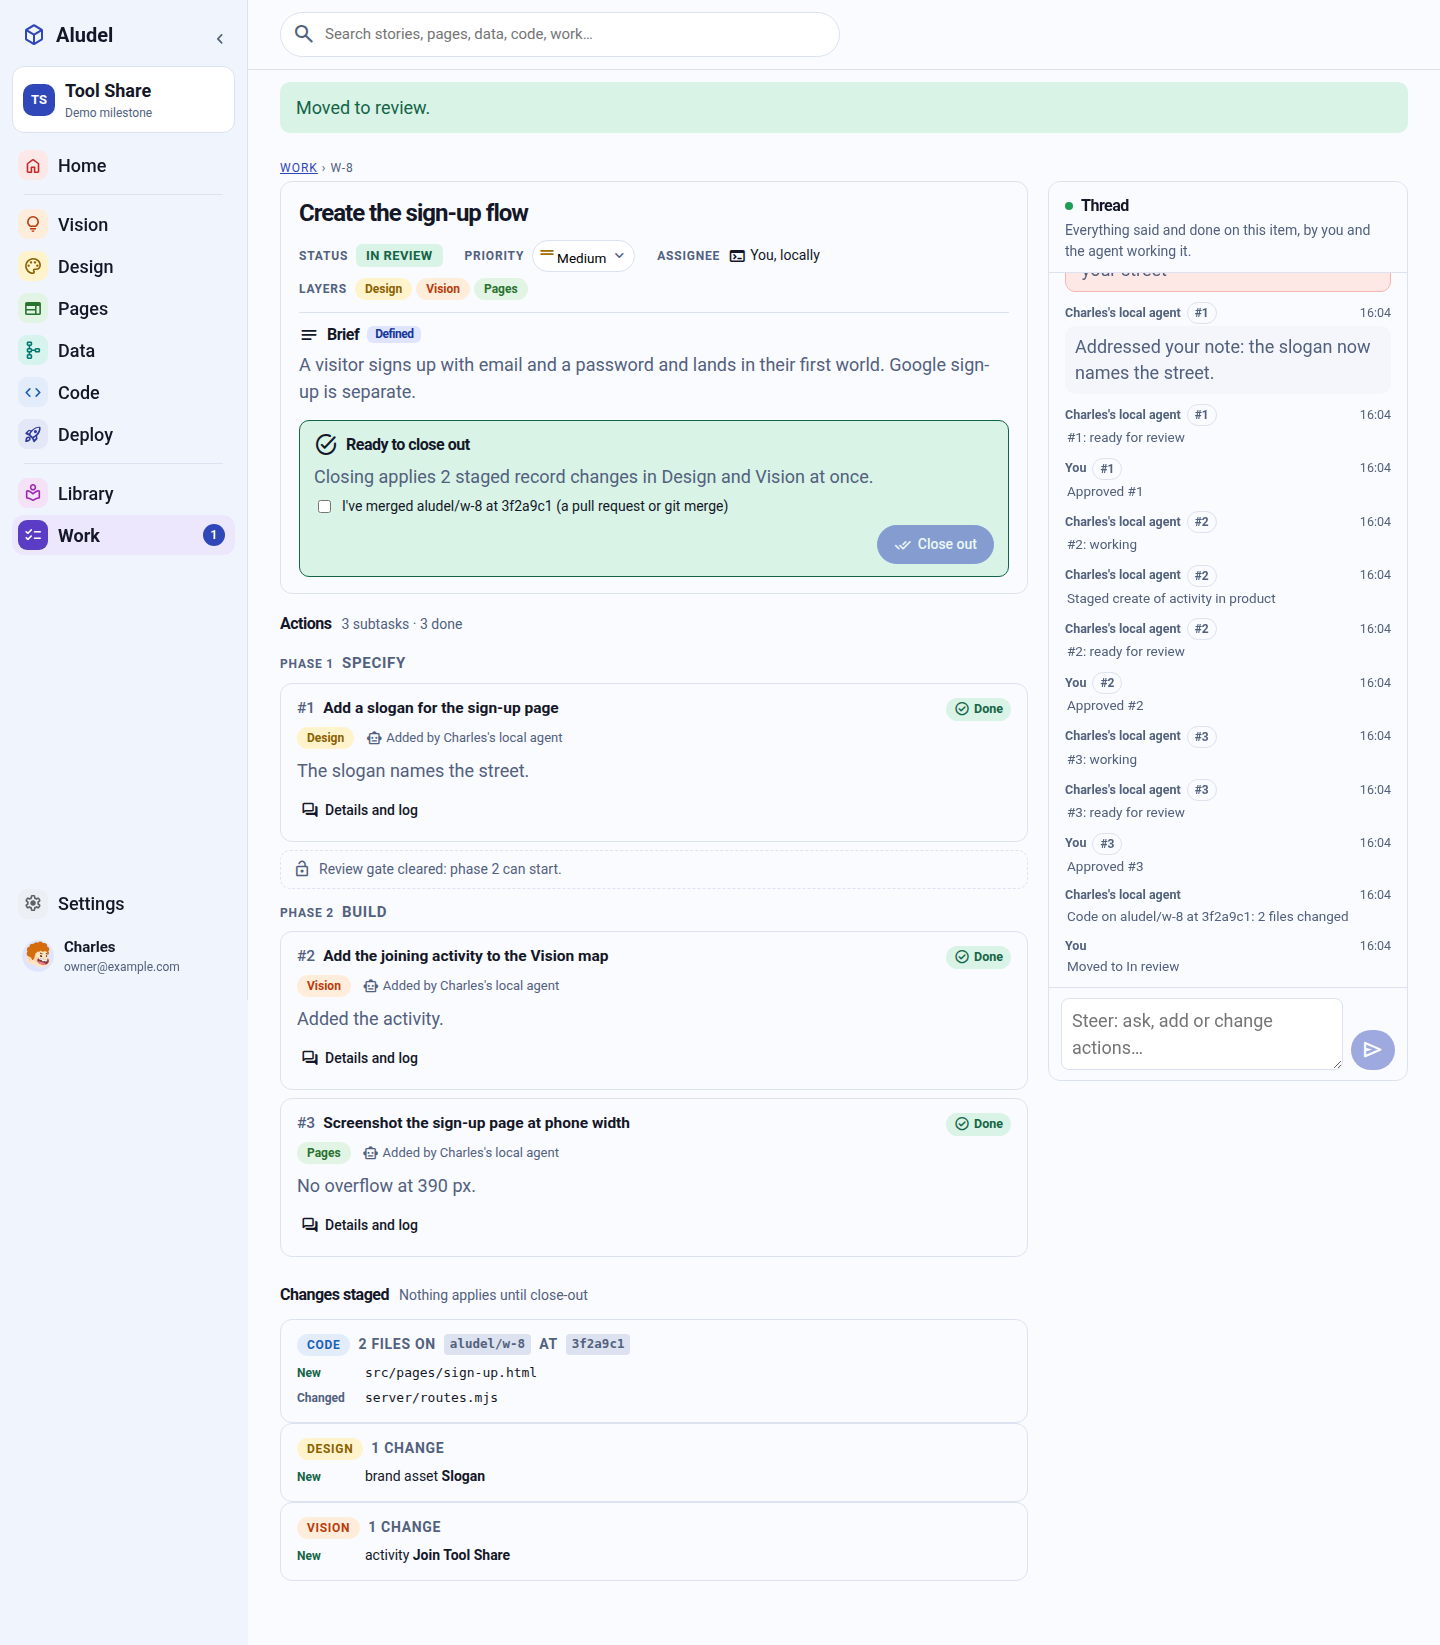
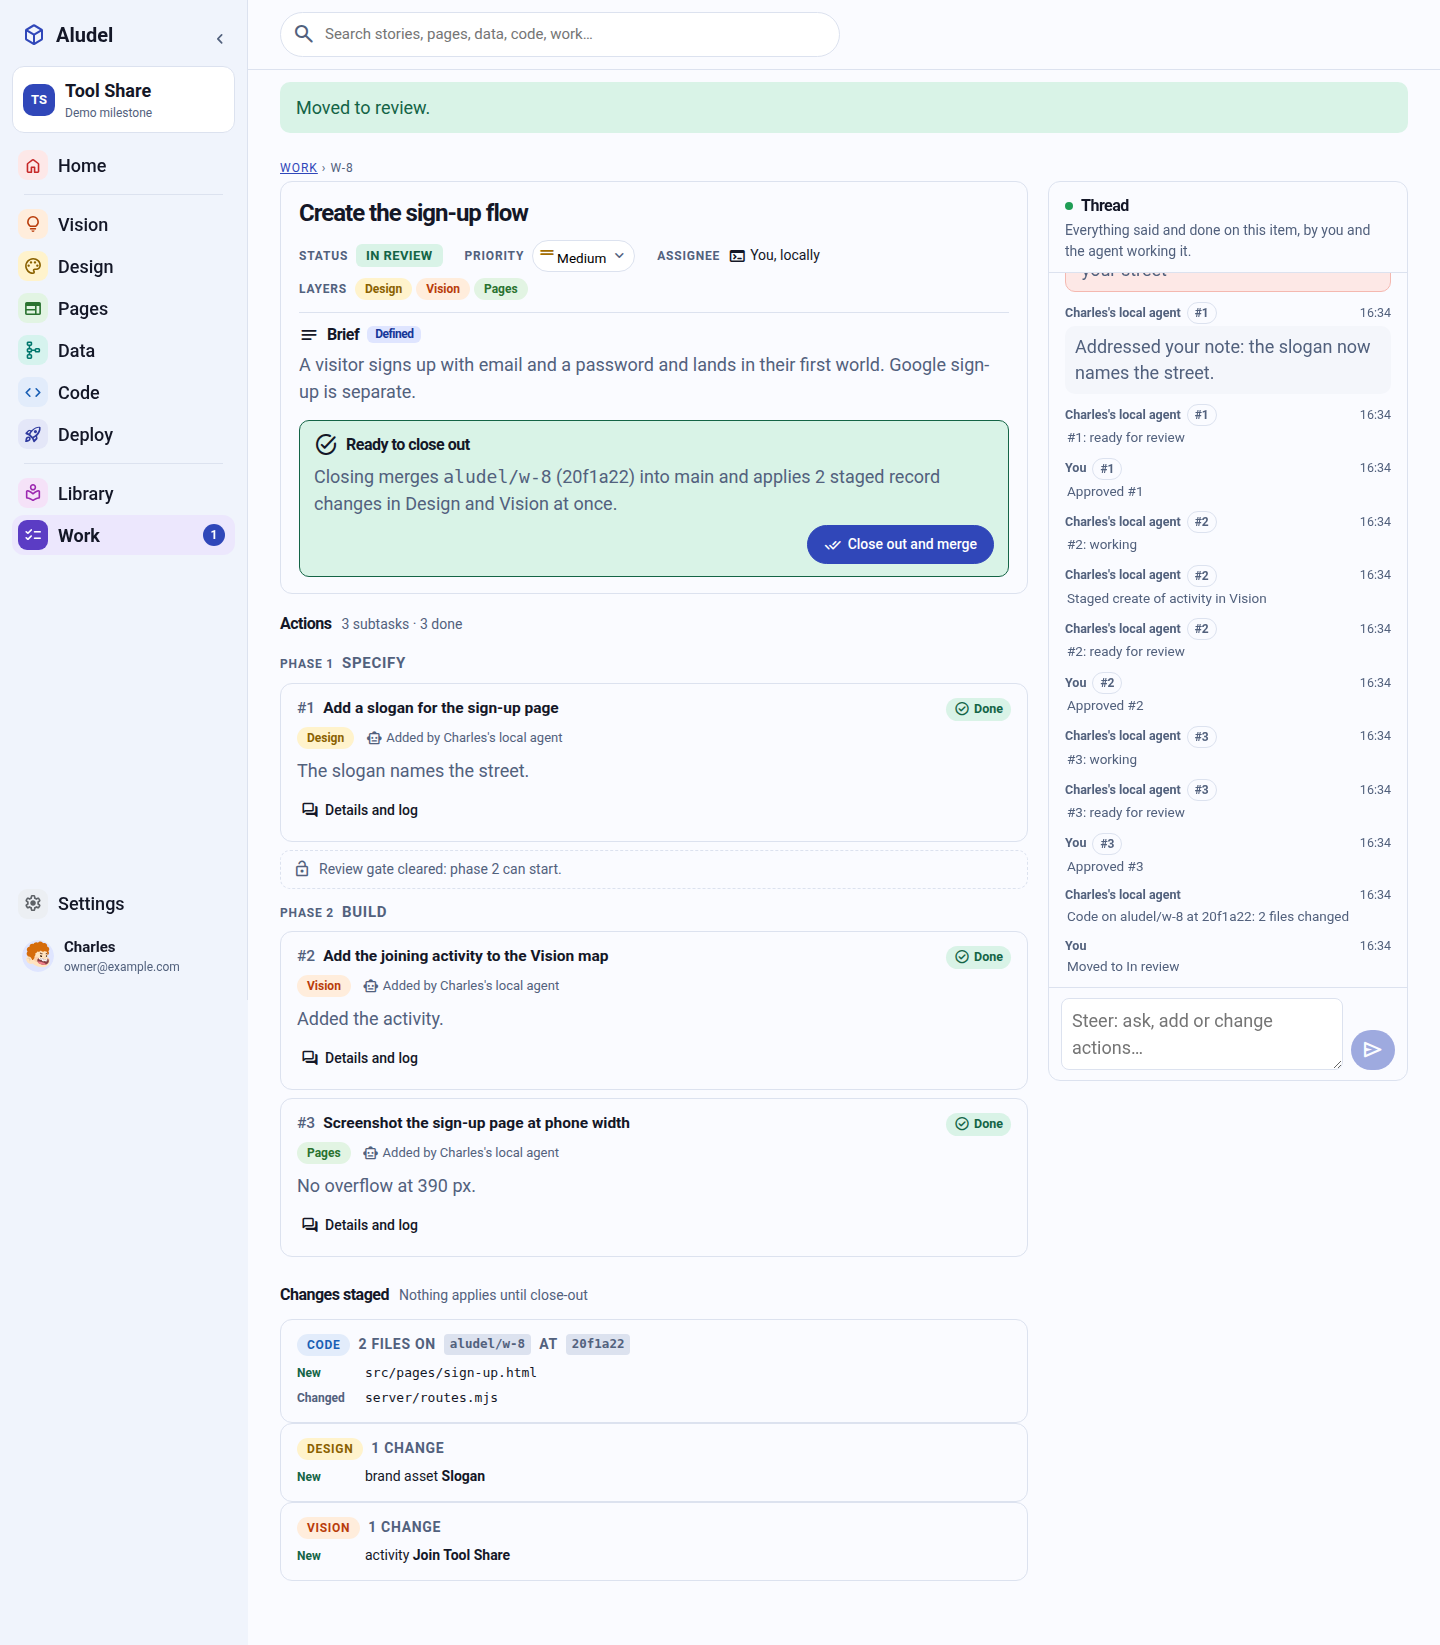
AGENT-WORK-01 A4: close-out merges the code
Close out and merge fetches the reported branch from the person's checkout
and moves main (fast-forward, or a merge commit when main moved) in the same
transaction as the record changes. Conflicts send the item back to the agent
to rebase. A project with a GitHub repository gets main pushed.

Claude-Session: https://claude.ai/code/session_011wz4bsPfhPSsrG8qpSbVx9

Changed region(s): [[0.2188, 0.279, 0.6875, 0.341], [0.4062, 0.8061, 0.4375, 0.8371]]

diff --git a/apps/portal/src/layers/work-goal.ts b/apps/portal/src/layers/work-goal.ts
@@ -15,7 +15,7 @@ export type GoalEvent = { id: number; action: number | null; kind: 'message' | '
 export type GoalAction = { id: string; number: number; phase: number; layer: string | null; goal: string; after: number[]; state: 'proposed' | 'todo' | 'working' | 'review' | 'done';
   summary: string; addedBy: GoalAuthor | null; updatedAt: string; needs: GoalEvent[]; blocked: string | null };
 type GoalChange = { id: string; kind: string; op: 'create' | 'update' | 'delete'; action?: number | null; after?: Record<string, unknown> | null; before?: Record<string, unknown> | null };
-export type GoalCode = { branch: string; commit: string; base: string | null; files: { path: string; status: string }[]; at: string; inRepository?: boolean; merged?: 'verified' | 'confirmed' };
+export type GoalCode = { branch: string; commit: string; base: string | null; files: { path: string; status: string }[]; at: string; inRepository?: boolean; target?: string | null; merged?: { into: string; commit: string; mode: string } | null };
 export type GoalView = { item: WorkItem & { board: string }; brief: string; defined: boolean; performer: string | null; code: GoalCode | null; phases: { number: number; title: string; gated: boolean }[];
   actions: GoalAction[]; needs: GoalEvent[]; events: GoalEvent[]; changeset: { layer: string; changes: GoalChange[] }[] };
 
@@ -70,12 +70,9 @@ const actionIcon: Record<string, string> = { proposed: 'add_task', todo: 'radio_
           @if (goal.item.board === 'review') {
             <div class="wg-close" role="group" aria-labelledby="wg-close-title">
               <h2 id="wg-close-title"><mat-icon aria-hidden="true">task_alt</mat-icon>Ready to close out</h2>
-              <p>Closing applies {{ recordCount() }} staged record change{{ recordCount() === 1 ? '' : 's' }}@if (goal.changeset.length) { in {{ changedLayers() }} } at once.@if (!goal.changeset.length && !goal.code) { Nothing is staged; it closes as done. }</p>
-              @if (goal.code; as code) {
-                @if (code.inRepository) { <p class="wg-hint"><mat-icon aria-hidden="true">check_circle</mat-icon>{{ code.branch }} at {{ code.commit.slice(0, 7) }} is in the project repository.</p> }
-                @else { <label class="wg-confirm"><input type="checkbox" name="merged" [(ngModel)]="mergedConfirm">I've merged {{ code.branch }} at {{ code.commit.slice(0, 7) }} (a pull request or git merge)</label> }
-              }
-              <div class="wg-row wg-end"><button type="button" class="lay-button wg-go" (click)="close()" [disabled]="!!goal.code && !goal.code.inRepository && !mergedConfirm"><mat-icon aria-hidden="true">done_all</mat-icon>Close out</button></div>
+              <p>Closing @if (goal.code && !goal.code.inRepository) { merges <code>{{ goal.code.branch }}</code> ({{ goal.code.commit.slice(0, 7) }}) into {{ goal.code.target || 'main' }} and }applies {{ recordCount() }} staged record change{{ recordCount() === 1 ? '' : 's' }}@if (goal.changeset.length) { in {{ changedLayers() }} } at once.@if (!goal.changeset.length && !goal.code) { Nothing is staged; it closes as done. }</p>
+              @if (goal.code?.inRepository) { <p class="wg-hint"><mat-icon aria-hidden="true">check_circle</mat-icon>{{ goal.code!.branch }} at {{ goal.code!.commit.slice(0, 7) }} is already in {{ goal.code!.target || 'main' }}.</p> }
+              <div class="wg-row wg-end"><button type="button" class="lay-button wg-go" (click)="close()"><mat-icon aria-hidden="true">done_all</mat-icon>{{ goal.code && !goal.code.inRepository ? 'Close out and merge' : 'Close out' }}</button></div>
             </div>
           }
           @if (goal.item.board === 'done') { <p class="wg-hint wg-closed"><mat-icon aria-hidden="true">task_alt</mat-icon>Closed. {{ closedText() }}</p> }
@@ -206,7 +203,7 @@ export class WorkGoalComponent {
   readonly adding = signal<number | null>(null);
   readonly editingBrief = signal(false);
   readonly flagging = signal<number | null>(null);
-  flagDraft = ''; mergedConfirm = false;
+  flagDraft = '';
   readonly stackKeys = signal<string[]>([]);
   briefDraft = ''; goalDraft = ''; layerDraft = ''; steerDraft = '';
   answers: Record<number, string> = {}; answerText: Record<number, string> = {};
@@ -266,7 +263,7 @@ export class WorkGoalComponent {
   approve(action: GoalAction) { void this.act(() => this.ctx.api(this.path(`/review/${action.number}`), 'POST', { verdict: 'approve' }), `Approved #${action.number}.`); }
   flag(action: GoalAction) { const note = this.flagDraft.trim(); if (!note) return;
     void this.act(() => this.ctx.api(this.path(`/review/${action.number}`), 'POST', { verdict: 'flag', note }), `Flagged #${action.number}; it's back with the agent.`).then(ok => { if (ok) this.flagging.set(null); }); }
-  close() { void this.act(() => this.ctx.api(this.path('/close'), 'POST', { codeMerged: this.mergedConfirm }), 'Closed.'); }
+  close() { void this.act(() => this.ctx.api(this.path('/close'), 'POST', {}), 'Closed.'); }
   actionsIn(phase: number) { return (this.view()?.actions || []).filter(action => action.phase === phase); }
   gate(phase: number) {
     const view = this.view(); const entry = view?.phases.find(item => item.number === phase);

diff --git a/apps/portal/src/layers/work-goal.css b/apps/portal/src/layers/work-goal.css
@@ -111,6 +111,5 @@
 .wg-close{margin-top:14px;padding:12px 14px;border:1px solid var(--lay-ok-ink);border-radius:10px;background:var(--lay-ok-bg)}
 .wg-close h2{display:flex;align-items:center;gap:8px;margin:0 0 6px;font-size:16px}
 .wg-close p{margin:0 0 6px}
-.wg-confirm{display:flex;align-items:center;gap:8px;font-size:14px;margin:6px 0}
 .wg-closed{margin-top:12px}
 .wg-ev-flag p{background:#fde8e6;border:1px solid #f4b8b0}

diff --git a/docs/design/agent-work/work-record.md b/docs/design/agent-work/work-record.md
@@ -246,4 +246,13 @@ Owner, before handing over: "if you want to implement here then we switch once f
 
 - **Changed:** per-action review and close-out. An action ready for review shows the changes it staged, with Approve or Flag; a flag needs a note, sends the action back to working and tells the agent (its instructions now say to look for flags and address them). Review gates hold later phases until the gated phase is approved. Close-out needs the item in review, every action done, nothing waiting on the person, and the code merged; it applies every staged record change in one transaction and refuses if any record changed since it was staged. The how-to gained steps 8 and 9. Screens: [a4/](a4/).
 - **Checked:** two new model tests (review, flag, gate, confirmed merge; close-out applies Design and Vision changes and refuses on a moved record), and the browser journey through flag, gate, move to review, close-out and the closed state, with axe at 1440 and 390 px. Checking the closed screen found the thread stuck at its top (newest entries hidden) and "Nothing applies until close-out" after close-out; both fixed and asserted in the journey. Plain suite 309 pass, 3 fail (the known baseline three). Templates suite 306 pass; the known worker-token failure, and `symphony-proposals` timed out at 300 s as in A3. Run alone it shows only the two known baseline failures, so the timeout is inferred to be load timing.
-- **Deviations from the plan:** close-out doesn't merge the code branch through `mergeLayerBranch`. The branch is in the person's checkout, so they merge it (pull request or git); close-out verifies the commit is in the portal workspace or asks them to confirm. The orchestrator's combined check (a Verify agent), actions derived from bindings and previews of the local branch are not built. The dogfood will show which of these matter first.
+- **Deviations from the plan:** ~~close-out doesn't merge the code; the person merges it and confirms~~ (superseded the same day: close-out merges it, see the revision below). The orchestrator's combined check (a Verify agent), actions derived from bindings and previews of the local branch are not built. The dogfood will show which of these matter first.
+
+### A4 revision: close-out merges the code (2026-10-05)
+
+Owner, on the A4 handover: "i want aludel to handle the merge. you know how i tell you looks good and you can merge it in? same deal." Same build authorization; the merge and push are product behavior the person triggers with Close out, not something this session runs against a real repository.
+
+- **Changed:** Close out and merge replaces the "I've merged" checkbox. The code report carries the checkout's path. Close-out fetches the branch from it into the project repository and moves main by fast-forward, or by a merge commit written with `git merge-tree` when main moved; a checked-out main must be clean. It happens in the same transaction as the record changes, and main only moves if it is still where close-out found it. A conflict changes nothing: the item goes back to the agent with a note naming the files, and the agent's instructions say to rebase and report again. A project with a GitHub repository then gets main pushed with its installation token, as the build does; the outcome is logged on the item.
+- **Checked:** the model test now uses real repositories: no repository refuses, a conflict sends the item back with main untouched, and after the rebase a merge commit lands with both sides in the checked-out main. The browser journey closes out against a real checkout and repository. Suites below.
+- **Not checked:** the push to GitHub. No project here has a GitHub repository; it reuses the build's push. This replaces the earlier deviation: the plan's `mergeLayerBranch` is still not used, because the code is in the person's checkout rather than a layer branch.
+

diff --git a/docs/design/agent-work/local-work.md b/docs/design/agent-work/local-work.md
@@ -12,4 +12,4 @@ Claude Code on your machine works a goal item through the Aludel tools, on your 
 6. **Let it work.** Claude moves one unblocked action at a time to working. It stages record changes through each layer's API (`stage_change`), and commits code on a branch named for the item, then reports it (`report_code`). It asks on the action when it needs you and hands each action to review with a summary. Answer, approve and steer on the page.
 7. **Report and check.** `aludel.mjs submit W-n` reports the branch's committed code. `aludel.mjs status W-n` shows where things stand.
 8. **Review each action.** When an action is ready for review, its card lists the changes it staged. Approve it, or Flag it with what should change: the agent sees the flag on its next check and reworks the action. A phase with a review gate waits until you've approved its actions.
-9. **Close it out.** When every action is done, press Move to review. Close-out applies all staged record changes at once. It refuses if a record changed since it was staged, so nothing is overwritten. Code isn't merged by Aludel: merge the branch yourself (pull request or git). If the portal's workspace already holds the commit, close-out sees that; otherwise tick "I've merged …" first.
+9. **Close it out.** When every action is done, press Move to review, then Close out and merge: your "looks good, merge it". Aludel fetches the branch from your checkout and merges it into the project repository's main branch (a fast-forward, or a merge commit if main moved). In the same step it applies all staged record changes. It refuses if a record changed since it was staged. If the branch conflicts with main, nothing merges and the item goes back to the agent to rebase. A project connected to GitHub then gets main pushed there.
